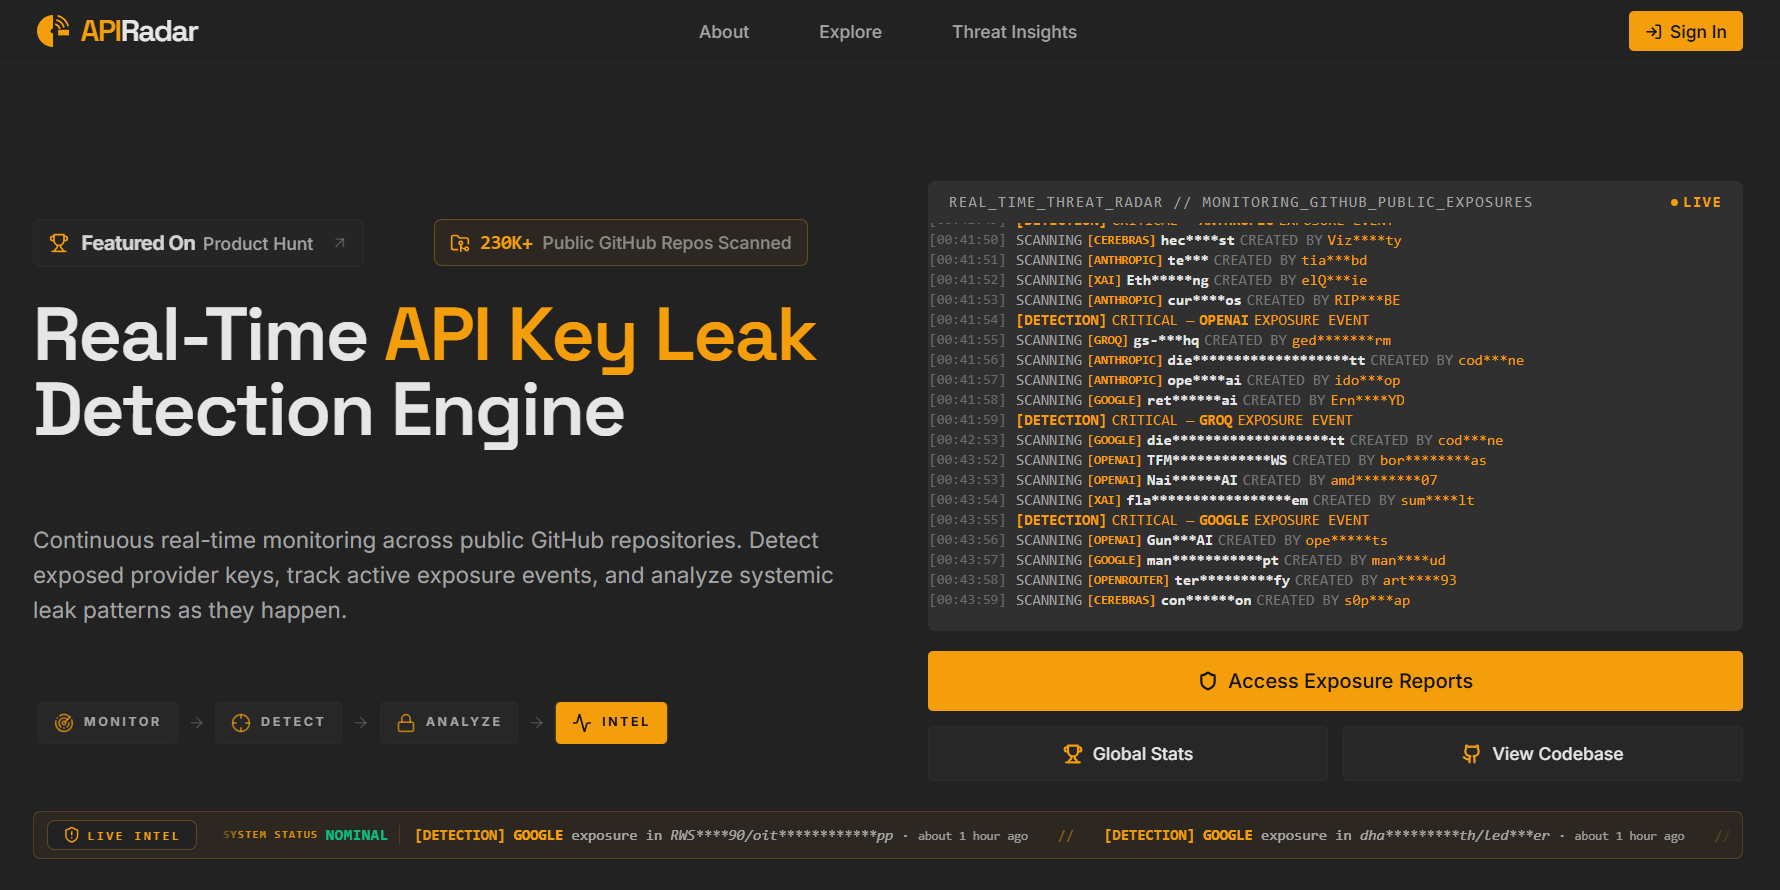
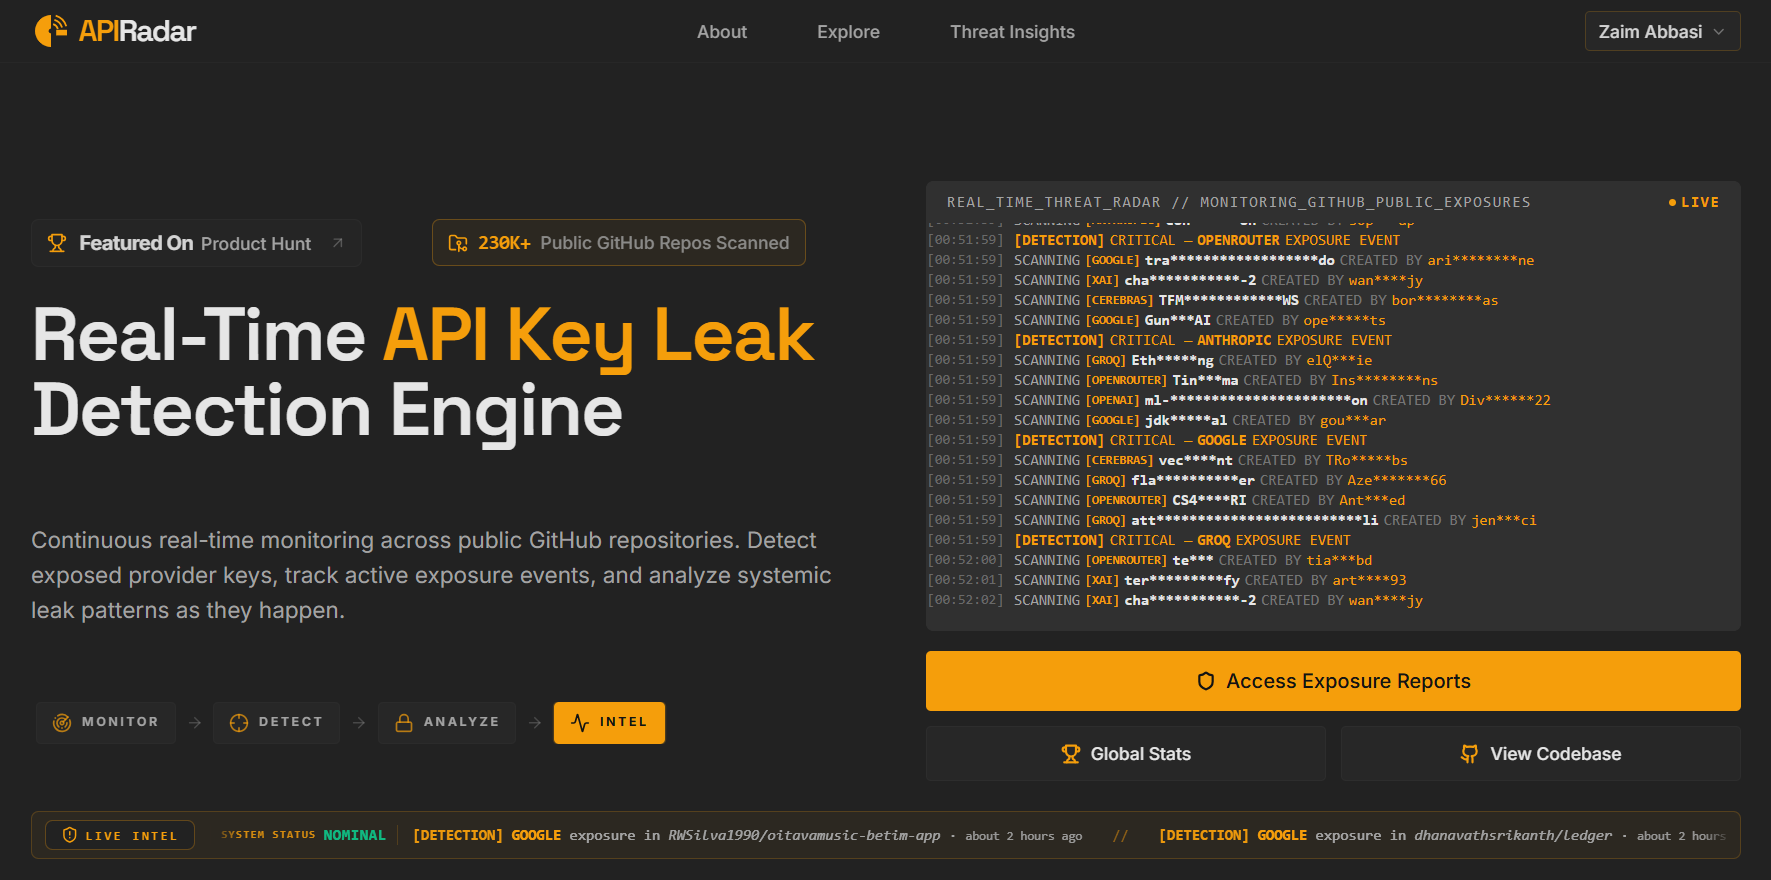
updated readme

diff --git a/README.md b/README.md
@@ -7,26 +7,29 @@
 </p>
 
 <p align="center">
-  <a href="https://apiradar.bot.nu/" target="_blank" rel="noopener noreferrer"><img src="https://img.shields.io/badge/Live_Demo-apiradar.bot.nu-F59E0B?style=flat-square&logo=google-chrome&logoColor=white" alt="Live Demo" /></a>
-  <a href="https://www.producthunt.com/products/api-radar/launches/api-radar-2" target="_blank" rel="noopener noreferrer"><img src="https://img.shields.io/badge/Product_Hunt-Featured-DA552F?style=flat-square&logo=product-hunt&logoColor=white" alt="Product Hunt" /></a>
-  <a href="https://opensource.org/licenses/MIT" target="_blank" rel="noopener noreferrer"><img src="https://img.shields.io/badge/License-MIT-blue.svg?style=flat-square" alt="License: MIT" /></a>
+  <a href="https://apiradar.bot.nu/" target="_blank" rel="noopener noreferrer"><img src="https://img.shields.io/badge/Live_Demo-apiradar.bot.nu-F59E0B?style=for-the-badge&logo=google-chrome&logoColor=white" alt="Live Demo" /></a>
+  <a href="https://www.producthunt.com/products/api-radar/launches/api-radar-2" target="_blank" rel="noopener noreferrer"><img src="https://img.shields.io/badge/Product_Hunt-Featured-DA552F?style=for-the-badge&logo=product-hunt&logoColor=white" alt="Product Hunt" /></a>
+  <a href="https://opensource.org/licenses/MIT" target="_blank" rel="noopener noreferrer"><img src="https://img.shields.io/badge/License-MIT-blue.svg?style=for-the-badge" alt="License: MIT" /></a>
 </p>
 
 <p align="center">
-  <a href="https://nextjs.org/" target="_blank" rel="noopener noreferrer"><img src="https://img.shields.io/badge/Next.js-000000?style=flat-square&logo=next.js&logoColor=white" alt="Next.js" /></a>
-  <a href="https://www.fastify.io/" target="_blank" rel="noopener noreferrer"><img src="https://img.shields.io/badge/Fastify-000000?style=flat-square&logo=fastify&logoColor=white" alt="Fastify" /></a>
-  <a href="https://www.typescriptlang.org/" target="_blank" rel="noopener noreferrer"><img src="https://img.shields.io/badge/TypeScript-3178C6?style=flat-square&logo=typescript&logoColor=white" alt="TypeScript" /></a>
-  <a href="https://www.mongodb.com/" target="_blank" rel="noopener noreferrer"><img src="https://img.shields.io/badge/MongoDB-47A248?style=flat-square&logo=mongodb&logoColor=white" alt="MongoDB" /></a>
-  <a href="https://tailwindcss.com/" target="_blank" rel="noopener noreferrer"><img src="https://img.shields.io/badge/Tailwind_CSS-38B2AC?style=flat-square&logo=tailwind-css&logoColor=white" alt="Tailwind CSS" /></a>
+  <a href="https://nextjs.org/" target="_blank" rel="noopener noreferrer"><img src="https://img.shields.io/badge/Next.js-000000?style=for-the-badge&logo=next.js&logoColor=white" alt="Next.js" /></a>
+  <a href="https://www.fastify.io/" target="_blank" rel="noopener noreferrer"><img src="https://img.shields.io/badge/Fastify-000000?style=for-the-badge&logo=fastify&logoColor=white" alt="Fastify" /></a>
+  <a href="https://www.typescriptlang.org/" target="_blank" rel="noopener noreferrer"><img src="https://img.shields.io/badge/TypeScript-3178C6?style=for-the-badge&logo=typescript&logoColor=white" alt="TypeScript" /></a>
+  <a href="https://www.mongodb.com/" target="_blank" rel="noopener noreferrer"><img src="https://img.shields.io/badge/MongoDB-47A248?style=for-the-badge&logo=mongodb&logoColor=white" alt="MongoDB" /></a>
+  <a href="https://tailwindcss.com/" target="_blank" rel="noopener noreferrer"><img src="https://img.shields.io/badge/Tailwind_CSS-38B2AC?style=for-the-badge&logo=tailwind-css&logoColor=white" alt="Tailwind CSS" /></a>
 </p>
 
-> [!NOTE]
-> APIRadar is live at **[apiradar.bot.nu](https://apiradar.bot.nu/)**.
+<p align="center">
+  <i>Note: APIRadar has migrated from <code>apiradar.live</code> to <a href="https://apiradar.bot.nu/" target="_blank" rel="noopener noreferrer">apiradar.bot.nu</a>.</i>
+</p>
 
 <br />
 
 <p align="center">
   <img src="public/screenshots/homepage.png" alt="APIRadar Real-Time Threat Radar Homepage" width="100%" />
+  <br />
+  <sub><i>Note: All dashboard screenshots and telemetry statistics reflect live data as of September 6, 2026.</i></sub>
 </p>
 
 ---
@@ -36,6 +39,9 @@
 - [How Secret Detection Works](#how-secret-detection-works)
 - [Supported Providers](#supported-providers)
 - [Getting Started](#getting-started)
+  - [Prerequisites](#prerequisites)
+  - [Environment Setup](#environment-setup)
+  - [Installation & Running](#installation--running)
 - [Adding a New Provider](#adding-a-new-provider)
 - [Contributing](#contributing)
 - [Disclaimer](#disclaimer)
@@ -45,7 +51,7 @@
 
 ## How Secret Detection Works
 
-APIRadar filters candidate strings through a 6-stage validation pipeline: **RegEx trigger matching**, **prefix/suffix sanitization**, **placeholder keyword filtering**, **[Shannon Entropy](<https://en.wikipedia.org/wiki/Entropy_(information_theory)>) calculation ($H \ge 2.5$)**, and **[trigram Markov model](https://en.wikipedia.org/wiki/Markov_chain) scoring**.
+APIRadar candidate strings are validated through a 6-stage pipeline: **RegEx trigger matching** ([RegexRouter.ts](backend/src/services/RegexRouter.ts)), **prefix/suffix sanitization**, **placeholder keyword filtering**, **[Shannon Entropy](https://en.wikipedia.org/wiki/Entropy_(information_theory)) calculation ($H \ge 2.5$)**, and **[trigram Markov model](https://en.wikipedia.org/wiki/Markov_chain) scoring** ([apiKeyValidator.ts](backend/src/services/apiKeyValidator.ts)).
 
 The trigram Markov model (`model.json`) was custom-trained on the [Google 10,000 English Corpus](https://github.com/first20hours/google-10000-english) to calculate letter transition probabilities and eliminate natural language false positives.
 
@@ -53,9 +59,14 @@ The trigram Markov model (`model.json`) was custom-trained on the [Google 10,000
 
 ## Supported Providers
 
-APIRadar monitors leaked secrets across **OpenAI**, **Anthropic**, **Google Gemini**, **OpenRouter**, **xAI (Grok)**, **Groq**, **Cerebras**, **Slack Tokens & Webhooks**, **Discord Tokens & Webhooks**, and **Telegram Bot Tokens** _(stats as of September 6, 2026)_.
+APIRadar monitors leaked secrets across **OpenAI**, **Anthropic**, **Google Gemini**, **OpenRouter**, **xAI (Grok)**, **Groq**, **Cerebras**, **Slack Tokens & Webhooks**, **Discord Tokens & Webhooks**, and **Telegram Bot Tokens**.
 
-![APIRadar Supported Providers Dashboard](public/screenshots/providers.png)
+<p align="center">
+  <img src="public/screenshots/explore.png" alt="APIRadar Credential Exposures & Supported Providers Dashboard" width="100%" />
+</p>
+
+> [!TIP]
+> **Want to monitor a custom secret format?** APIRadar is fully extensible. See [Adding a New Provider](#adding-a-new-provider) below to register custom regex rules in 3 simple steps.
 
 ---
 
@@ -64,7 +75,7 @@ APIRadar monitors leaked secrets across **OpenAI**, **Anthropic**, **Google Gemi
 ### Prerequisites
 
 - **[Node.js](https://nodejs.org/)**: v18.0.0 or higher
-- **[MongoDB](https://www.mongodb.com/)**: v6.0 or higher
+- **[MongoDB](https://www.mongodb.com/docs/manual/installation/)**: v6.0 or higher
 - **GitHub App**: App ID & RSA Private Key. See [GitHub Docs: Registering a GitHub App](https://docs.github.com/en/apps/creating-github-apps/registering-a-github-app/registering-a-github-app) to create one.
 
 ---
@@ -136,24 +147,24 @@ GITHUB_APP_PRIVATE_KEY="-----BEGIN RSA PRIVATE KEY-----\n...\n-----END RSA PRIVA
 
 To add a provider, update three files:
 
-1. **Add matching rule** in [backend/src/services/RegexRouter.ts](file:///d:/Projects/Summers/APIRadar/backend/src/services/RegexRouter.ts):
+1. **Add matching rule** in [backend/src/services/RegexRouter.ts](backend/src/services/RegexRouter.ts):
 
 ```typescript
 {
-  name: 'cohere',
-  label: 'Cohere',
-  regex: /\b(cohere_[a-zA-Z0-9]{32,64})\b/,
-  prefixes: ['cohere_']
+  name: 'cohere',                         // Unique provider ID (lowercase)
+  label: 'Cohere',                       // UI display label
+  regex: /\b(cohere_[a-zA-Z0-9]{32,64})\b/, // Use \b word boundaries to prevent false positives
+  prefixes: ['cohere_']                  // Static search prefix strings for Code Search
 }
 ```
 
-2. **Strip static prefixes** in [backend/src/services/apiKeyValidator.ts](file:///d:/Projects/Summers/APIRadar/backend/src/services/apiKeyValidator.ts):
+2. **Strip static prefixes** in [backend/src/services/apiKeyValidator.ts](backend/src/services/apiKeyValidator.ts):
 
 ```typescript
-secretPart = secretPart.replace(/^cohere_/, "");
+secretPart = secretPart.replace(/^cohere_/, ""); // Strips fixed prefix so entropy & Markov scoring evaluate raw key randomness
 ```
 
-3. **Register UI constants** in [lib/constants.ts](file:///d:/Projects/Summers/APIRadar/lib/constants.ts):
+3. **Register UI constants** in [lib/constants.ts](lib/constants.ts):
 
 ```typescript
 export const PROVIDER_NAMES = ['cohere', ...] as const;
@@ -171,7 +182,7 @@ To contribute a new provider, bug fix, or feature:
 1. Fork the repo and create a feature branch (`git checkout -b feature/my-changes`).
 2. Format (`npm run format`) and lint (`npm run lint`).
 3. Confirm the backend builds (`cd backend && npm run build`).
-4. Submit a Pull Request.
+4. Submit a [Pull Request](https://github.com/zaim-abbasi/APIRadar/pulls).
 
 ---
 
@@ -185,4 +196,4 @@ Users are solely responsible for ensuring compliance with applicable laws, third
 
 ## License
 
-Distributed under the MIT License. See [LICENSE](file:///d:/Projects/Summers/APIRadar/LICENSE) for details.
+Distributed under the MIT License. See [LICENSE](LICENSE) for details.
